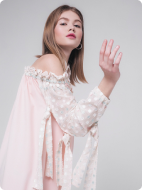
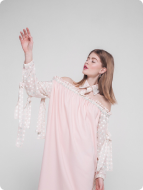
final

diff --git a/src/components/Gallery.tsx b/src/components/Gallery.tsx
@@ -1,6 +1,10 @@
 import React from 'react'
 
-const Gallery = () => {
+type Props = {
+  folder: string
+}
+
+const Gallery = ({ folder }: Props) => {
   return (
     <section>
       <div className='grid grid-cols-2'>
@@ -8,11 +12,11 @@ const Gallery = () => {
         <p className='title-section-side cursor-pointer text-right pt-5'>See all</p>
       </div>
       <div className='grid grid-cols-6 gap-2'>
-        <img className='col-start-1 col-end-4 cursor-pointer pics' src="../images1/photo.png" alt="" />
-        <img className='col-start-4 col-end-7 cursor-pointer pics' src="../images1/photo1.png" alt="" />
-        <img className='col-start-1 col-end-3 cursor-pointer pics' src="../images1/photo2.png" alt="" />
-        <img className='col-start-3 col-end-5 cursor-pointer pics' src="../images1/photo3.png" alt="" />
-        <img className='col-start-5 col-end-7 cursor-pointer pics' src="../images1/photo4.png" alt="" />
+        <img className='col-start-1 col-end-4 cursor-pointer pics' src={`../${folder}/photo.png`} alt="" />
+        <img className='col-start-4 col-end-7 cursor-pointer pics' src={`../${folder}/photo1.png`} alt="" />
+        <img className='col-start-1 col-end-3 cursor-pointer pics' src={`../${folder}/photo2.png`} alt="" />
+        <img className='col-start-3 col-end-5 cursor-pointer pics' src={`../${folder}/photo3.png`} alt="" />
+        <img className='col-start-5 col-end-7 cursor-pointer pics' src={`../${folder}/photo4.png`} alt="" />
       </div>
     </section>
   )

diff --git a/src/index.css b/src/index.css
@@ -32,15 +32,15 @@ body {
   }
 
   .btn-1 {
-    @apply text-[26px] rounded-full bg-white w-16 h-16 shadow-xl text-amber-600 pt-5 font-semibold hover:-translate-y-1 hover:bg-orange-200 duration-300;
+    @apply text-[26px] rounded-full bg-white w-16 h-16 shadow-xl text-amber-600 pt-5 font-semibold hover:-translate-y-1 hover:bg-orange-200 duration-200;
   }
 
   .btn-2 {
-    @apply text-[40px] rounded-full bg-red-500 w-20 h-20 shadow-lg shadow-red-300 text-white pt-5 hover:-translate-y-2 hover:brightness-150 duration-300;
+    @apply text-[40px] rounded-full bg-red-500 w-20 h-20 shadow-lg shadow-red-300 text-white pt-5 hover:-translate-y-2 hover:brightness-150 duration-200;
   }
 
   .btn-3 {
-    @apply text-[26px] rounded-full bg-white w-16 h-16 shadow-xl text-purple-800 pt-5 hover:-translate-y-1 hover:bg-violet-300 duration-300;
+    @apply text-[26px] rounded-full bg-white w-16 h-16 shadow-xl text-purple-800 pt-5 hover:-translate-y-1 hover:bg-violet-300 duration-200;
   }
 
   .arrow-1 {

diff --git a/src/App.tsx b/src/App.tsx
@@ -1,13 +1,24 @@
+import { useState } from 'react'
 import './App.css'
 import Body from './components/Body'
 import Header from './components/Header'
 
 function App() {
 
+  const [folder, setFolder] = useState<string>("images1")
+
+  const handleClick = (): void => {
+    if(folder === 'images1') {
+      setFolder('images2')
+    } else {
+      setFolder('images1')
+    }
+  }
+
   return (
     <div className="App relative max-w-sm ml-auto mr-auto shadow-xl my-4 scroll-smooth">
-      <Header />
-      <Body />
+      <Header folder = {folder} handleClick= {handleClick} />
+      <Body folder = {folder} />
     </div>
   )
 }

diff --git a/src/components/Header.tsx b/src/components/Header.tsx
@@ -1,10 +1,15 @@
 import React from 'react'
 
-const Header = () => {
+type Props = {
+  folder: string,
+  handleClick: () => void
+}
+
+const Header = ({folder, handleClick}: Props) => {
   return (
     <header>
-      <i className='bx bx-chevron-left arrow-1'></i>
-      <img className='block object-cover w-full' src="../images1/main.png" alt="main-photo" />
+      <i onClick={handleClick} className='bx bx-chevron-left arrow-1'></i>
+      <img className='block object-cover w-full' src={`../${folder}/main.png`} alt="main-photo" />
     </header>
   )
 }

diff --git a/src/components/Body.tsx b/src/components/Body.tsx
@@ -3,12 +3,16 @@ import Gallery from "./Gallery";
 import Information from "./Information";
 import Interests from "./Interests";
 
-const Body = () => {
+type Props = {
+  folder: string
+}
+
+const Body = ({ folder }: Props) => {
   return (
     <section className="relative -top-12 bg-white rounded-[20px] w-full px-8 pt-16">
       <Information />
       <Interests />
-      <Gallery />
+      <Gallery folder= { folder } />
     </section>
   );
 };
